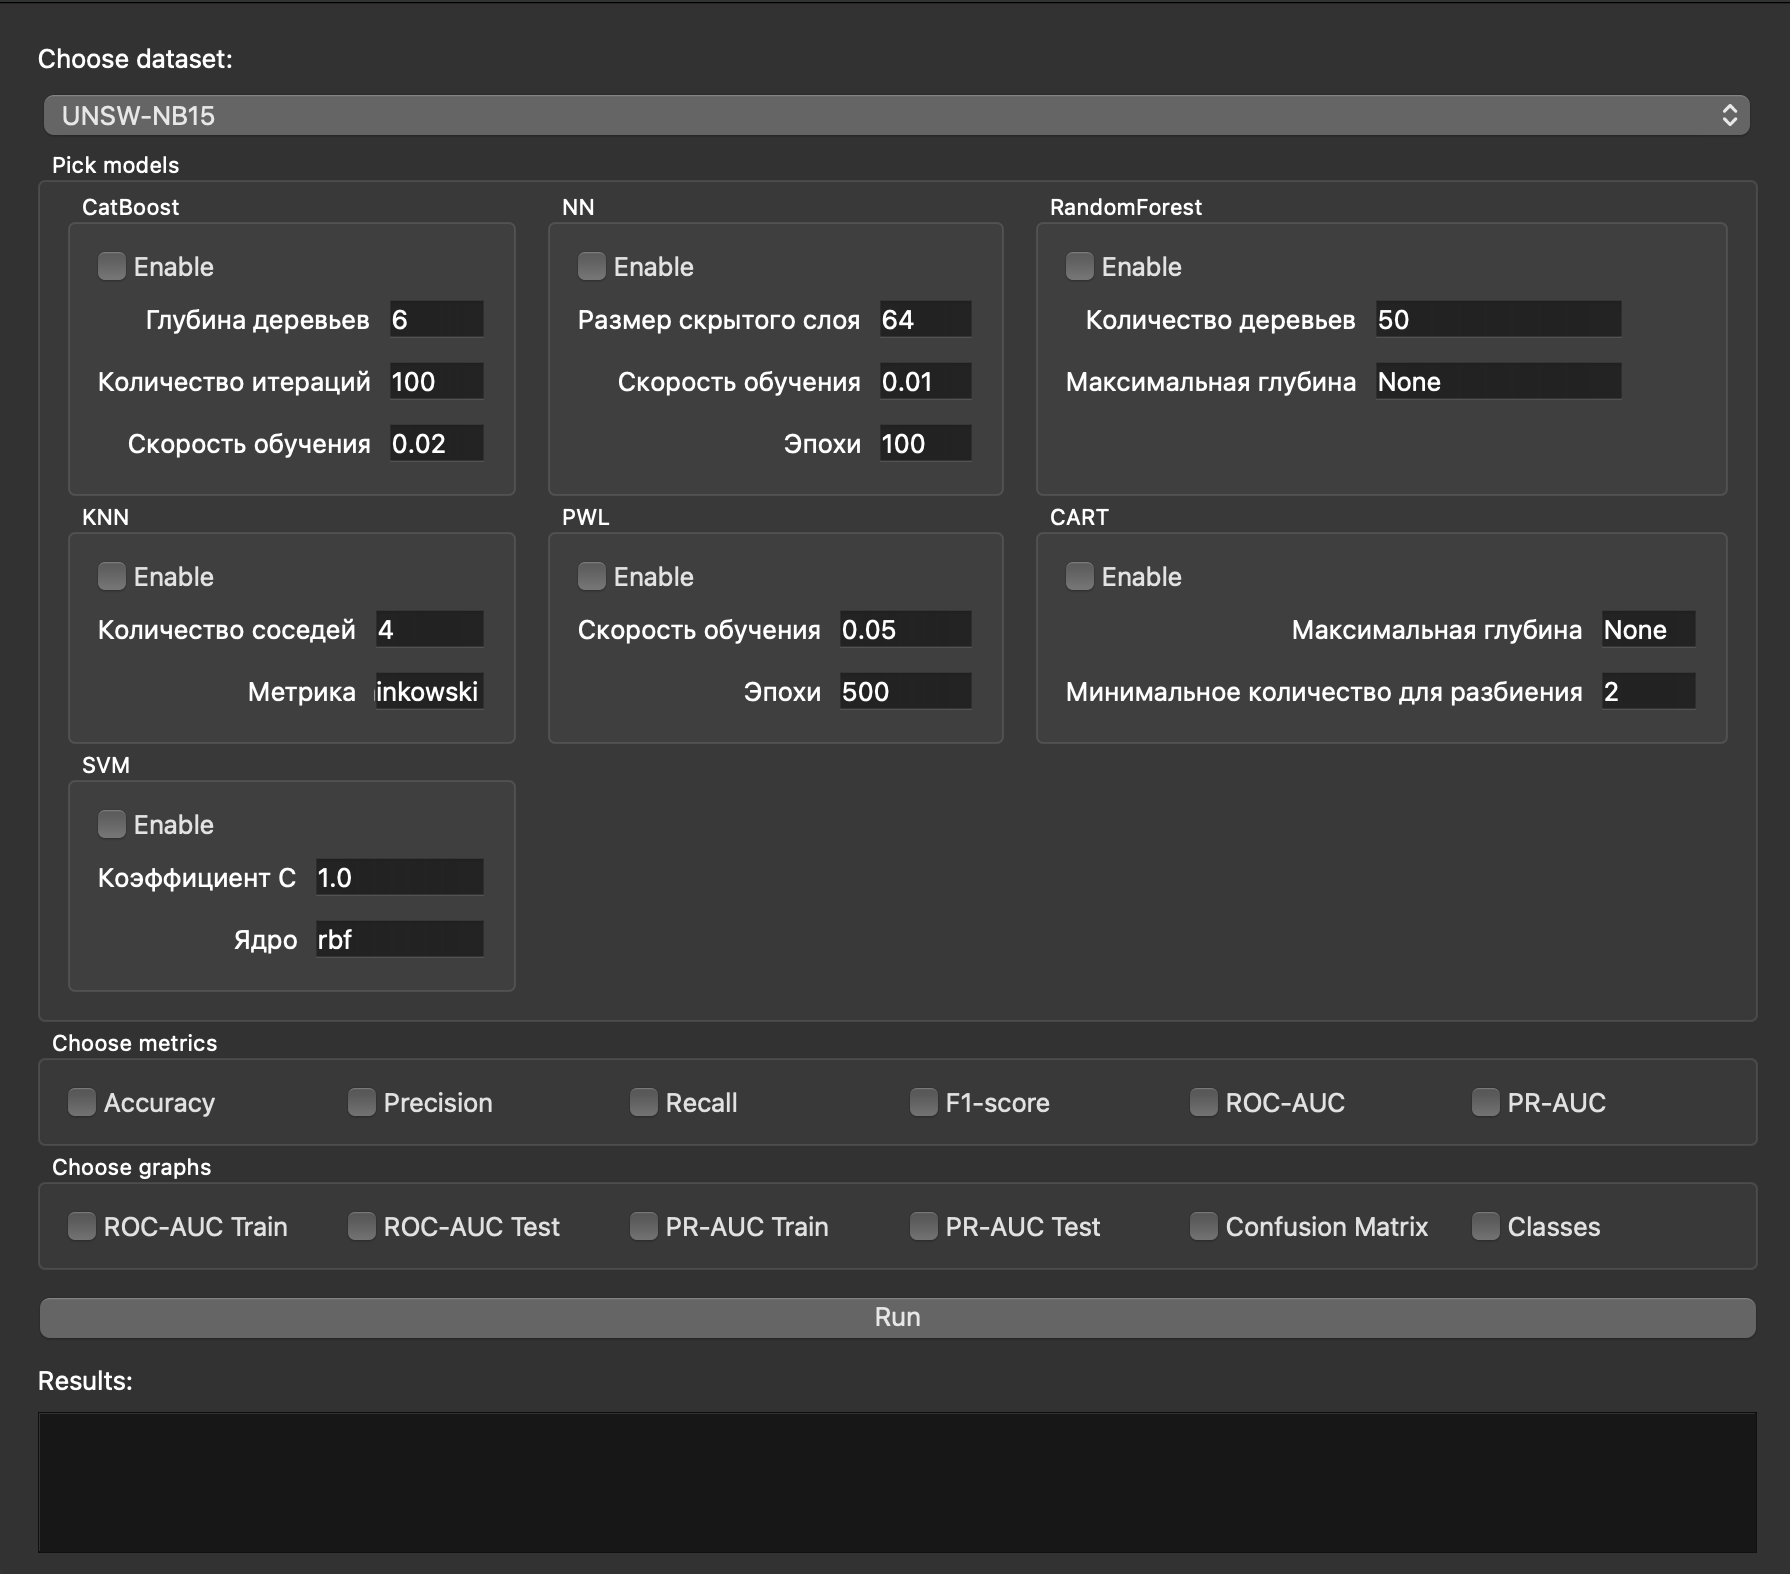
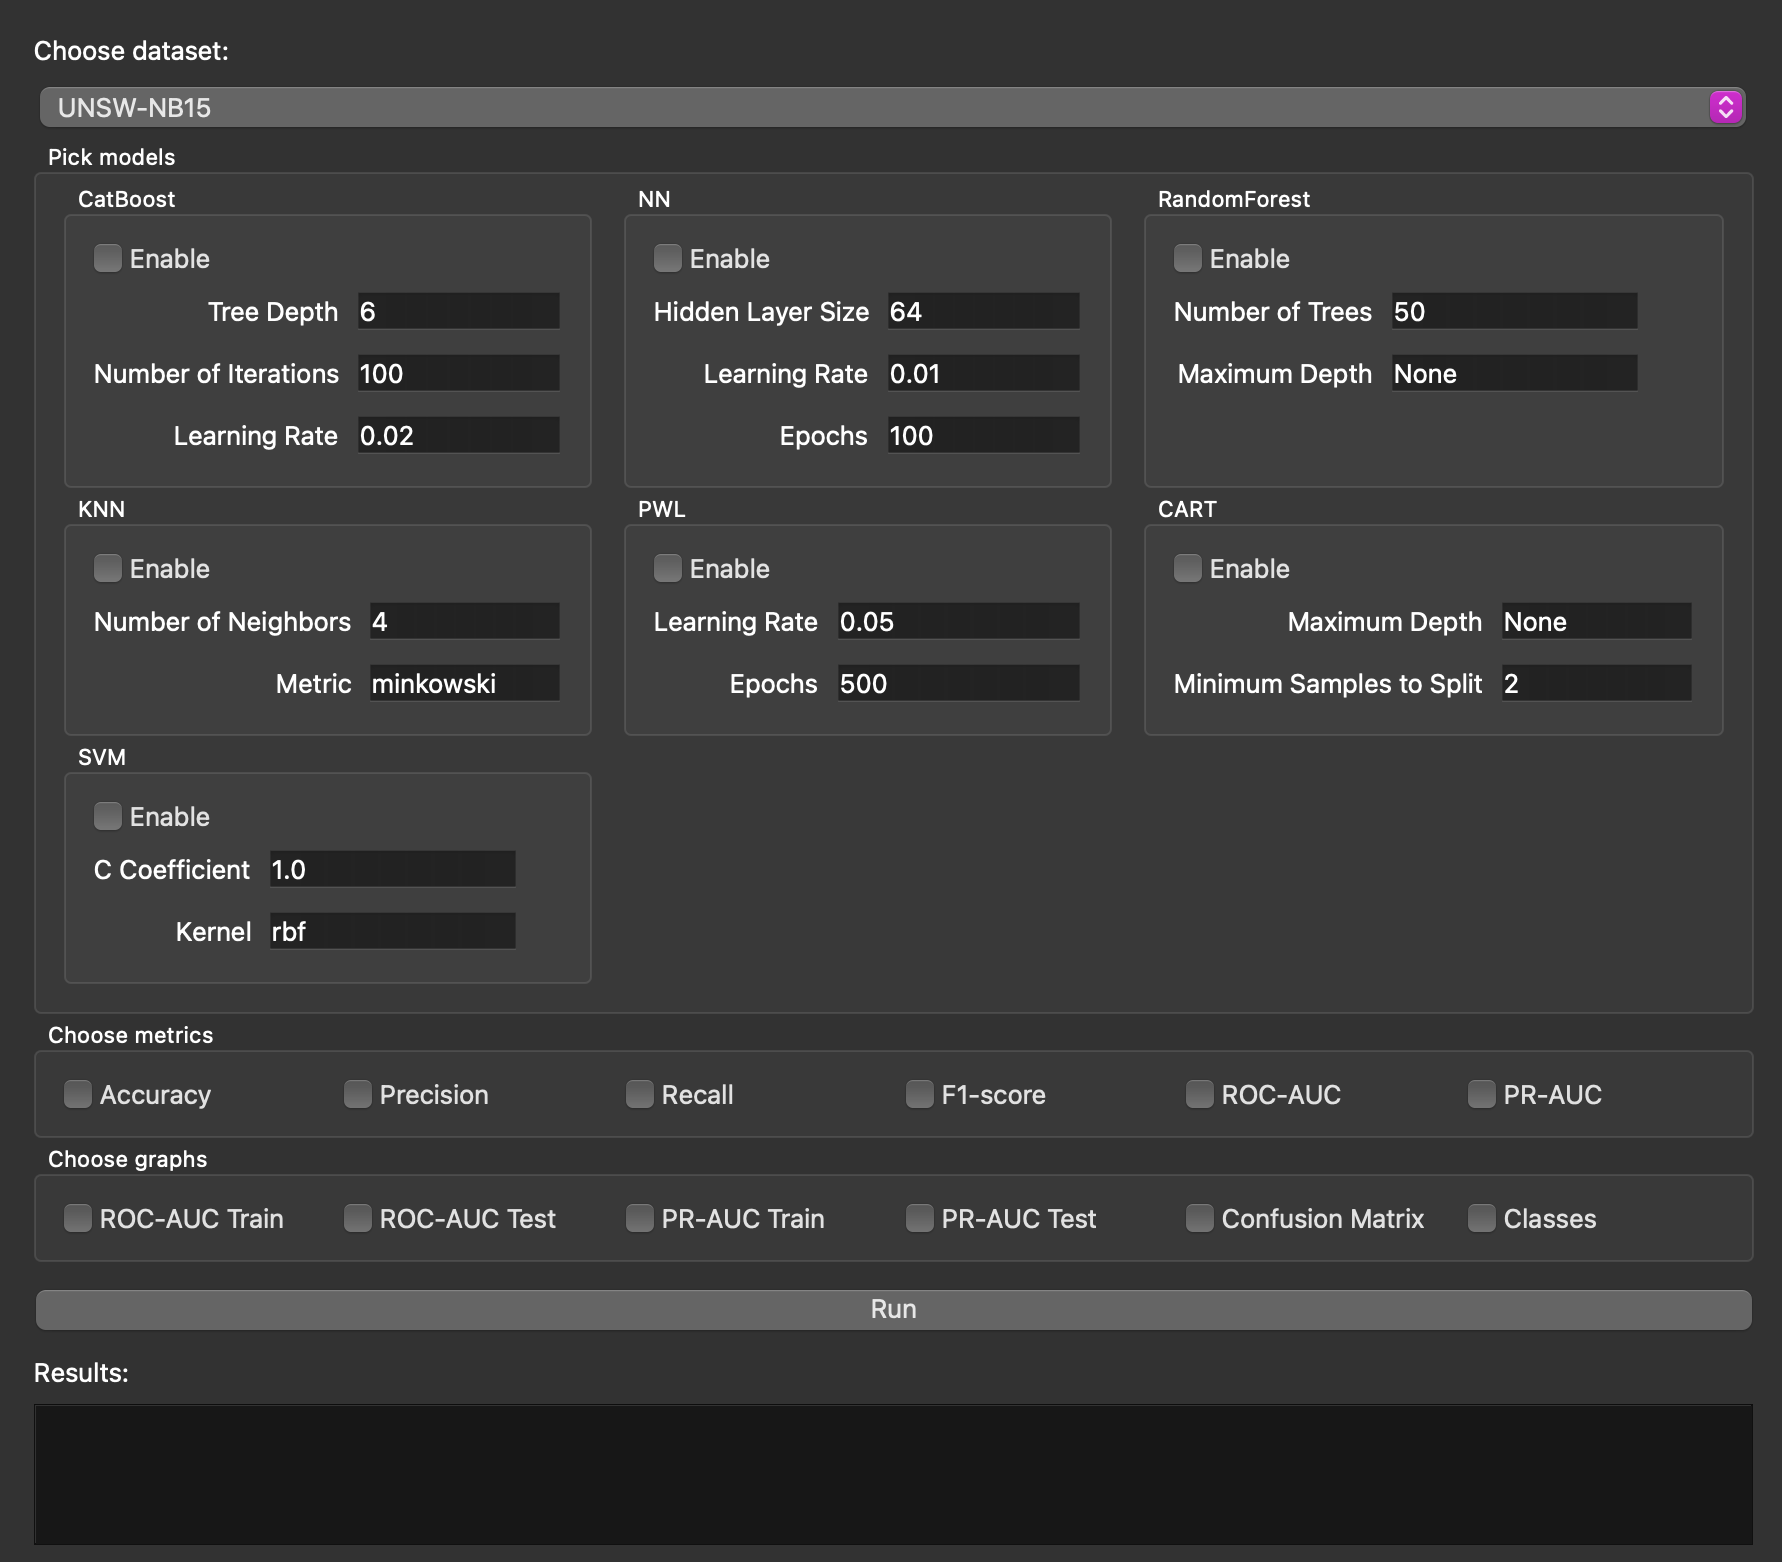
translation, gui png

diff --git a/heart.py b/heart.py
@@ -19,9 +19,9 @@ class MLController:
             self.dataset_loader.load_and_preprocess()
             self.X_train, self.X_test, self.y_train, self.y_test, self.features, self.target = self.dataset_loader.get_data()
 
-        if dataset == 'UNSW-NB15_transformed':  
+        if dataset == 'Random':  
             print(dataset)
-            import datasets.UNSW_NB15_transformed as dataset
+            import datasets.random as dataset
             self.dataset_loader = dataset.DatasetLoader()
             self.dataset_loader.load_and_preprocess()
             self.X_train, self.X_test, self.y_train, self.y_test, self.features, self.target = self.dataset_loader.get_data()
@@ -37,42 +37,42 @@ class MLController:
         for model_name in selected_models:
             if model_name == "CatBoost":
                 model = model_catboost.CatBoostModel(
-                    depth=int(model_params[model_name]["Глубина деревьев"]),
-                    iterations=int(model_params[model_name]["Количество итераций"]),
-                    learning_rate=float(model_params[model_name]["Скорость обучения"])
+                    depth=int(model_params[model_name]["Tree Depth"]),
+                    iterations=int(model_params[model_name]["Number of Iterations"]),
+                    learning_rate=float(model_params[model_name]["Learning Rate"])
                 )
             elif model_name == "NN":
                 model = nn.NNModel(
                     input_size=self.X_train.shape[1],
-                    hidden_size=int(model_params[model_name]["Размер скрытого слоя"]),
-                    learning_rate=float(model_params[model_name]["Скорость обучения"]),
-                    epochs=int(model_params[model_name]["Эпохи"])
+                    hidden_size=int(model_params[model_name]["Hidden Layer Size"]),
+                    learning_rate=float(model_params[model_name]["Learning Rate"]),
+                    epochs=int(model_params[model_name]["Epochs"])
                 )
             elif model_name == "SVM":
                 model = svm.SVMModel(
-                    C=float(model_params[model_name]["Коэффициент C"]),
-                    kernel=model_params[model_name]["Ядро"]
+                    C=float(model_params[model_name]["C Coefficient"]),
+                    kernel=model_params[model_name]["Kernel"]
                 )
             elif model_name == "RandomForest":
                 model = random_forest.RandomForestModel(
-                    n_estimators=int(model_params[model_name]["Количество деревьев"]),
-                    max_depth=int(model_params[model_name]["Максимальная глубина"]) if model_params[model_name]["Максимальная глубина"] != "None" else None
+                    n_estimators=int(model_params[model_name]["Number of Trees"]),
+                    max_depth=int(model_params[model_name]["Maximum Depth"]) if model_params[model_name]["Maximum Depth"] != "None" else None
                 )
             elif model_name == "KNN":
                 model = knn.KNNModel(
-                    n_neighbors=int(model_params[model_name]["Количество соседей"]),
-                    metric=model_params[model_name]["Метрика"]
+                    n_neighbors=int(model_params[model_name]["Number of Neighbors"]),
+                    metric=model_params[model_name]["Metric"]
                 )
             elif model_name == "PWL":
                 model = pwl.pwlModel(
                     input_dim=self.X_train.shape[1],
-                    learning_rate=float(model_params[model_name]["Скорость обучения"]),
-                    epochs=int(model_params[model_name]["Эпохи"])
+                    learning_rate=float(model_params[model_name]["Learning Rate"]),
+                    epochs=int(model_params[model_name]["Epochs"])
                 )
             elif model_name == "CART":
                 model = cart.cartModel(
-                    max_depth=int(model_params[model_name]["Максимальная глубина"]) if model_params[model_name]["Максимальная глубина"] != "None" else None,
-                    min_samples_split=int(model_params[model_name]["Минимальное количество для разбиения"])
+                    max_depth=int(model_params[model_name]["Maximum Depth"]) if model_params[model_name]["Maximum Depth"] != "None" else None,
+                    min_samples_split=int(model_params[model_name]["Minimum Samples to Split"])
                 )
 
             model.train(self.X_train, self.y_train)

diff --git a/gui.py b/gui.py
@@ -20,7 +20,7 @@ class MLInterface(QWidget):
         dataset_label = QLabel("Choose dataset:")
         self.dataset_combo = QComboBox()
         self.dataset_combo.addItems(["UNSW-NB15"])
-        self.dataset_combo.addItems(["UNSW-NB15_transformed"])
+        self.dataset_combo.addItems(["Random"])
 
 
         self.models_group = QGroupBox("Pick models")
@@ -36,29 +36,28 @@ class MLInterface(QWidget):
 
             params = {}
             if model == "CatBoost":
-                params["Глубина деревьев"] = QLineEdit("6")
-                params["Количество итераций"] = QLineEdit("100")
-                params["Скорость обучения"] = QLineEdit("0.02")
+                params["Tree Depth"] = QLineEdit("6")
+                params["Number of Iterations"] = QLineEdit("100")
+                params["Learning Rate"] = QLineEdit("0.02")
             elif model == "NN":
-                params["Размер скрытого слоя"] = QLineEdit("64")
-                params["Скорость обучения"] = QLineEdit("0.01")
-                params["Эпохи"] = QLineEdit("100")
+                params["Hidden Layer Size"] = QLineEdit("64")
+                params["Learning Rate"] = QLineEdit("0.01")
+                params["Epochs"] = QLineEdit("100")
             elif model == "SVM":
-                params["Коэффициент C"] = QLineEdit("1.0")
-                params["Ядро"] = QLineEdit("rbf")
+                params["C Coefficient"] = QLineEdit("1.0")
+                params["Kernel"] = QLineEdit("rbf")
             elif model == "RandomForest":
-                params["Количество деревьев"] = QLineEdit("50")
-                params["Максимальная глубина"] = QLineEdit("None")
+                params["Number of Trees"] = QLineEdit("50")
+                params["Maximum Depth"] = QLineEdit("None")
             elif model == "KNN":
-                params["Количество соседей"] = QLineEdit("4")
-                params["Метрика"] = QLineEdit("minkowski")
+                params["Number of Neighbors"] = QLineEdit("4")
+                params["Metric"] = QLineEdit("minkowski")
             elif model == "PWL":
-                params["Скорость обучения"] = QLineEdit("0.05")
-                params["Эпохи"] = QLineEdit("500")
+                params["Learning Rate"] = QLineEdit("0.05")
+                params["Epochs"] = QLineEdit("500")
             elif model == "CART":
-                params["Максимальная глубина"] = QLineEdit("None")
-                params["Минимальное количество для разбиения"] = QLineEdit("2")
-
+                params["Maximum Depth"] = QLineEdit("None")
+                params["Minimum Samples to Split"] = QLineEdit("2")
             group_layout.addRow(enable_checkbox)
             for param, field in params.items():
                 group_layout.addRow(param, field)

diff --git a/datasets/random.py b/datasets/random.py
@@ -1,0 +1,41 @@
+
+import numpy as np
+from sklearn.model_selection import train_test_split
+import numpy as np
+from sklearn.preprocessing import StandardScaler
+from math import radians, cos, sin
+
+
+class DatasetLoader:
+    def __init__(self):
+        pass
+
+    def load_and_preprocess(self):
+        pass
+    def get_data(self):
+        np.random.seed(42)
+        n_blue = 7500
+        n_red = 4500
+
+        x0 = np.random.normal(loc=0, scale=0.6, size=(n_blue, 2))
+        x0[:, 1] += 1.3 
+        x1 = np.random.normal(loc=0, scale=0.8, size=(n_red, 2))
+        x1[:, 1] = 0.5 * np.abs(x1[:, 0]) + np.random.normal(loc=-0.5, scale=0.3, size=n_red)
+        angle_deg = 10
+        theta = radians(angle_deg)
+        rotation_matrix = np.array([
+            [cos(theta), sin(theta)],
+            [-sin(theta), cos(theta)]
+        ])
+        x1_rotated = x1 @ rotation_matrix.T
+
+        X = np.vstack((x0, x1_rotated))
+        y = np.hstack((np.zeros(n_blue), np.ones(n_red)))
+
+        scaler = StandardScaler()
+        X_scaled = scaler.fit_transform(X)
+
+        X_train, X_test, y_train, y_test = train_test_split(X_scaled, y, test_size=0.3, random_state=42)
+        features = ['x0', 'x1']
+        target_name = 'y'
+        return X_train, X_test, y_train, y_test, features, target_name
